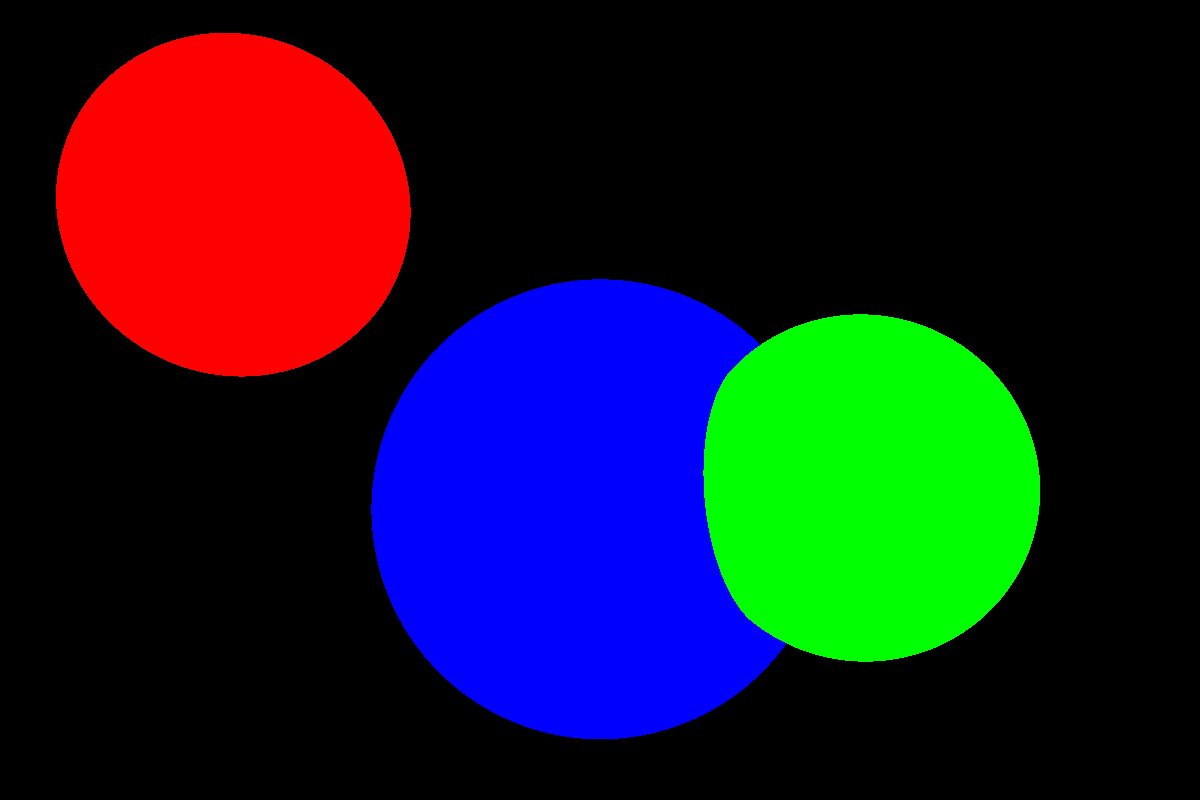
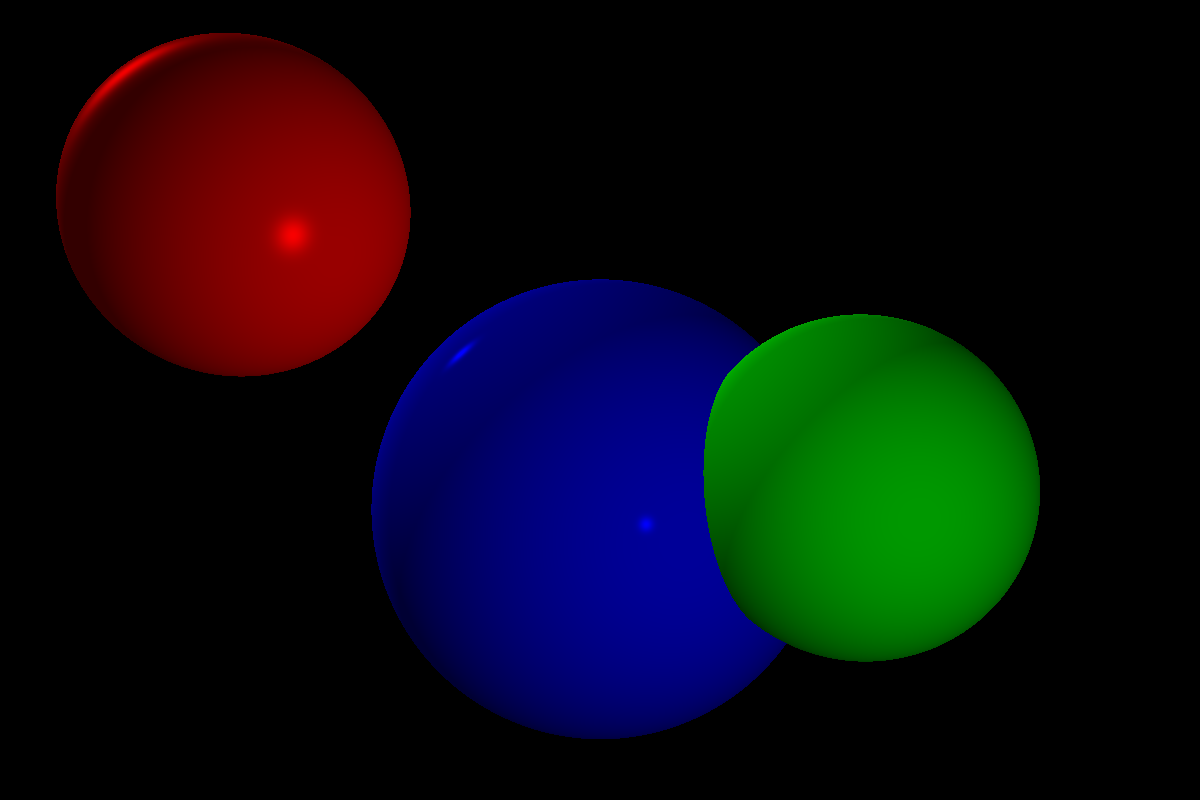
lighting working correctly

diff --git a/core/scene_parser.py b/core/scene_parser.py
@@ -42,18 +42,18 @@ class SceneParser:
         #         c: Cube = self.parse_cube(cube)
         #         self.scene.add_object(c)
         
-        # if len(point_lights) != 0:
-        #     for p_light in point_lights:
-        #         pl: PointLight = self.parse_point_light(p_light)
-        #         self.scene.add_light(pl)
-        # if len(directional_lights) != 0:
-        #     for d_light in directional_lights:
-        #         dl: DirLight = self.parse_directional_light(d_light)
-        #         self.scene.add_light(dl)
-        # if len(ambient_lights) != 0:
-        #     for a_light in ambient_lights:
-        #         al: AmbientLight = self.parse_ambient_light(a_light)
-        #         self.scene.add_light(al)
+        if len(point_lights) != 0:
+            for p_light in point_lights:
+                pl: PointLight = self.parse_point_light(p_light)
+                self.scene.add_light(pl)
+        if len(directional_lights) != 0:
+            for d_light in directional_lights:
+                dl: DirLight = self.parse_directional_light(d_light)
+                self.scene.add_light(dl)
+        if len(ambient_lights) != 0:
+            for a_light in ambient_lights:
+                al: AmbientLight = self.parse_ambient_light(a_light)
+                self.scene.add_light(al)
     
     def parse_sphere(self, sphere: dict) -> Sphere:
         x, y, z = sphere[SPHERES_CENTER][SPHERES_CENTER_X], sphere[SPHERES_CENTER][SPHERES_CENTER_Y], sphere[SPHERES_CENTER][SPHERES_CENTER_Z]
@@ -62,7 +62,7 @@ class SceneParser:
         specular = sphere[SPHERES_SPECULAR]
         reflective = sphere[SPHERES_REFLECTIVE]
         
-        s = Sphere(Vector(x, y, z), radius, (r, g, b))
+        s = Sphere(Vector(x, y, z), radius, (r, g, b), specular)
         if len(sphere[ANIMATIONS]) != 0:
             self.parse_animations(sphere, s)
         return s
@@ -90,17 +90,17 @@ class SceneParser:
     
     def parse_point_light(self, light: dict) -> PointLight:
         x, y, z = light[POINTS_POSITION][POINTS_POSITION_X], light[POINTS_POSITION][POINTS_POSITION_Y], light[POINTS_POSITION][POINTS_POSITION_Z]
-        r, g, b = light[POINTS_INTENSITY][POINTS_INTENSITY_R],light[POINTS_INTENSITY][POINTS_INTENSITY_G], light[POINTS_INTENSITY][POINTS_INTENSITY_B]
-        return PointLight(0.6, Vector(x, y, z))
+        intensity = light[POINTS_INTENSITY]
+        return PointLight(intensity, Vector(x, y, z))
     
     def parse_directional_light(self, light: dict) -> DirLight:
         x, y, z = light[DIRECTIONALS_DIRECTION][DIRECTIONALS_DIRECTION_X], light[DIRECTIONALS_DIRECTION][DIRECTIONALS_DIRECTION_Y], light[DIRECTIONALS_DIRECTION][DIRECTIONALS_DIRECTION_Z]
-        r, g, b = light[DIRECTIONALS_INTENSITY][DIRECTIONALS_INTENSITY_R],light[DIRECTIONALS_INTENSITY][DIRECTIONALS_INTENSITY_G], light[DIRECTIONALS_INTENSITY][DIRECTIONALS_INTENSITY_B]
-        return DirLight(0.2, Vector(x, y, z))
+        intensity = light[DIRECTIONALS_INTENSITY]
+        return DirLight(intensity, Vector(x, y, z))
     
     def parse_ambient_light(self, light: dict) -> AmbientLight:
-        r, g, b = light[AMBIENTS_INTENSITY][AMBIENTS_INTENSITY_R],light[AMBIENTS_INTENSITY][AMBIENTS_INTENSITY_G], light[AMBIENTS_INTENSITY][AMBIENTS_INTENSITY_B]
-        return AmbientLight(0.2)
+        intensity = light[AMBIENTS_INTENSITY]
+        return AmbientLight(intensity)
     
     # def parse_animations(self, object_dict: dict, object) :
     #     for anim in object_dict[ANIMATIONS]:

diff --git a/core/scene.py b/core/scene.py
@@ -1,7 +1,6 @@
 import math
 import json
 from typing import List, Tuple
-from utils.light_utils import compute_lighting
 from utils.vector import Vector
 from objects.sphere import Sphere
 from objects.object3D import Object3D
@@ -32,17 +31,18 @@ class Scene:
                 closest_obj = obj
         if closest_obj == None:
             return self.bg
-        P: Vector = O + closest_t * D  # Compute intersection
+        P: Vector = O + D * closest_t # Compute intersection
         N: Vector = P - closest_obj.center  # Compute sphere normal at intersection
         N = N.normalize()
-        return closest_obj.color * self.compute_lighting(P, N)
+        i: float = self.compute_lighting(P, N, -D, closest_obj.specular) # D is from the cam to the point, -D from the point to the cam
+        color: Tuple[int] = (int(closest_obj.color[0] * i), int(closest_obj.color[1] * i), int(closest_obj.color[2] * i))
+        return color
     
-    def compute_lighting(self, point: Vector, normal: Vector) -> float:
+    def compute_lighting(self, point: Vector, normal: Vector, V: Vector, s: int) -> float:
         i: float = 0.0
         for light in self.lights:
-            intensity: float = light.get_intensity()
-            position: Vector = light.get_position()
-            direction: Vector = light.get_direction_from_point(point)
+            i += light.get_intensity_at_point(point, normal, V, s)
+        return i  
     
     def loadScene(self, filename: str):
         """Load a complete scene from a json file. The file name in parameter can be './dir/file.json', '/dir/file.json', 'dir/file.json', 'file.json', or the same ones without '.json'.

diff --git a/lights/abstractLight.py b/lights/abstractLight.py
@@ -3,7 +3,7 @@ from utils.vector import Vector
 
 class AbstractLight:
     def __init__(self, intensity: float = 0.0, is_ambient: bool = False):
-        self.i: float = intensity
+        self.intensity: float = intensity
         self.is_ambient: bool = is_ambient
         
     @abstractmethod
@@ -31,12 +31,26 @@ class AbstractLight:
         raise NotImplementedError("get_color_at_point need to be implemented")
     
     @abstractmethod
-    def get_direction_from_point(self, point: Vector) -> Vector:
-        """Calculates the direction of the vector between the light and the point
+    def get_color_at_point(self, point: Vector) -> tuple:
+        """Calculates the color of the point in the scene
 
         Args:
             point (Vector): a point in the scene
+        
+        Returns:
+            tuple: the color calculated
+        """
+        raise NotImplementedError("get_color_at_point need to be implemented")
+    
+    @abstractmethod
+    def get_intensity_at_point(self, point: Vector, normal: Vector, V: Vector, s: int) -> float:
+        """Calculates the intensity of light at the point
+
+        Args:
+            point (Vector): a point in the scene
+            normal (Vector): the normal of the light ray at the point
 
         Returns:
-            Vector: the direction of the light
+            Vector: the intensity of light
         """
+        raise NotImplementedError("get_intensity_at_point need to be implemented")

diff --git a/lights/dirLight.py b/lights/dirLight.py
@@ -6,6 +6,9 @@ class DirLight(AbstractLight):
         super().__init__(intensity, False)
         self.direction: Vector = direction
     
+    def __repr__(self):
+        return f"DirLight(intensity: {self.intensity}, direction: {self.direction})"
+    
     def get_direction(self) -> Vector:
         return self.direction
     
@@ -20,3 +23,16 @@ class DirLight(AbstractLight):
     
     def get_direction_from_point(self, point: Vector) -> Vector:
         return self.direction
+    
+    def get_intensity_at_point(self, point: Vector, normal: Vector, V: Vector, s: int):
+        direction: Vector = self.direction
+        i: float = 0
+        n_dot_l = direction.dot(normal)
+        if n_dot_l > 0:
+            i += self.intensity * n_dot_l / (normal.length() * direction.length())
+        if s != -1:
+            R: Vector = normal * 2 * normal.dot(direction) - direction
+            r_dot_v = R.dot(V)
+            if r_dot_v > 0:
+                i += self.intensity * (r_dot_v / (R.length() * normal.length()))**s
+        return i

diff --git a/lights/pointLight.py b/lights/pointLight.py
@@ -6,6 +6,9 @@ class PointLight(AbstractLight):
         super().__init__(intensity, False)
         self.position: Vector = position
     
+    def __repr__(self):
+        return f"PointLight(intensity: {self.intensity}, position: {self.position})"
+    
     def get_direction(self) -> Vector:
         return None
     
@@ -20,3 +23,16 @@ class PointLight(AbstractLight):
     
     def get_direction_from_point(self, point: Vector) -> Vector:
         return self.position - point
+    
+    def get_intensity_at_point(self, point, normal, V: Vector, s: int):
+        i: float = 0
+        direction = self.get_direction_from_point(point)
+        n_dot_l = direction.dot(normal)
+        if n_dot_l > 0:
+            i += self.intensity * n_dot_l / (normal.length() * direction.length())
+        if s != -1:
+            R: Vector = normal * 2 * normal.dot(direction) - direction
+            r_dot_v = R.dot(V)
+            if r_dot_v > 0:
+                i += self.intensity * (r_dot_v / (R.length() * normal.length()))**s
+        return i

diff --git a/objects/sphere.py b/objects/sphere.py
@@ -4,12 +4,12 @@ from utils.vector import Vector
 from typing import Tuple
 
 class Sphere(Object3D):
-    def __init__(self, center: Vector, radius: float, color: Tuple[int]) -> Tuple[float]:
-        super().__init__(center, color)
+    def __init__(self, center: Vector, radius: float, color: Tuple[int], specular: int) -> Tuple[float]:
+        super().__init__(center, color, specular)
         self.r: float = radius
     
     def __repr__(self) -> str:
-        return f"Sphere(c: ({self.center.x}, {self.center.y}, {self.center.z}), r: {self.r}, color: {self.color})"
+        return f"Sphere(c: ({self.center.x}, {self.center.y}, {self.center.z}), r: {self.r}, color: {self.color}, specular: {self.specular})"
     
     def intersect(self, O: Vector, D: Vector):
         r = self.r

diff --git a/lights/ambientLight.py b/lights/ambientLight.py
@@ -4,6 +4,9 @@ from utils.vector import Vector
 class AmbientLight(AbstractLight):
     def __init__(self, intensity: float):
         super().__init__(intensity, True)
+        
+    def __repr__(self):
+        return f"AmbientLight(intensity: {self.intensity})"
     
     def get_direction(self) -> Vector:
         return None
@@ -19,3 +22,6 @@ class AmbientLight(AbstractLight):
     
     def get_direction_from_point(self, point: Vector) -> Vector:
         return None
+    
+    def get_intensity_at_point(self, point: Vector, normal: Vector, V: Vector, s: int):
+        return self.intensity

diff --git a/objects/Object3D.py b/objects/Object3D.py
@@ -3,9 +3,10 @@ from utils.vector import Vector
 from typing import Tuple
 
 class Object3D:
-    def __init__(self, center: Vector, color: Tuple[int]):
+    def __init__(self, center: Vector, color: Tuple[int], specular: int):
         self.center: Vector = center
         self.color: Tuple[int] = color
+        self.specular: int = specular
     
     @abstractmethod
     def intersect(self, O: Vector, D: Vector):
